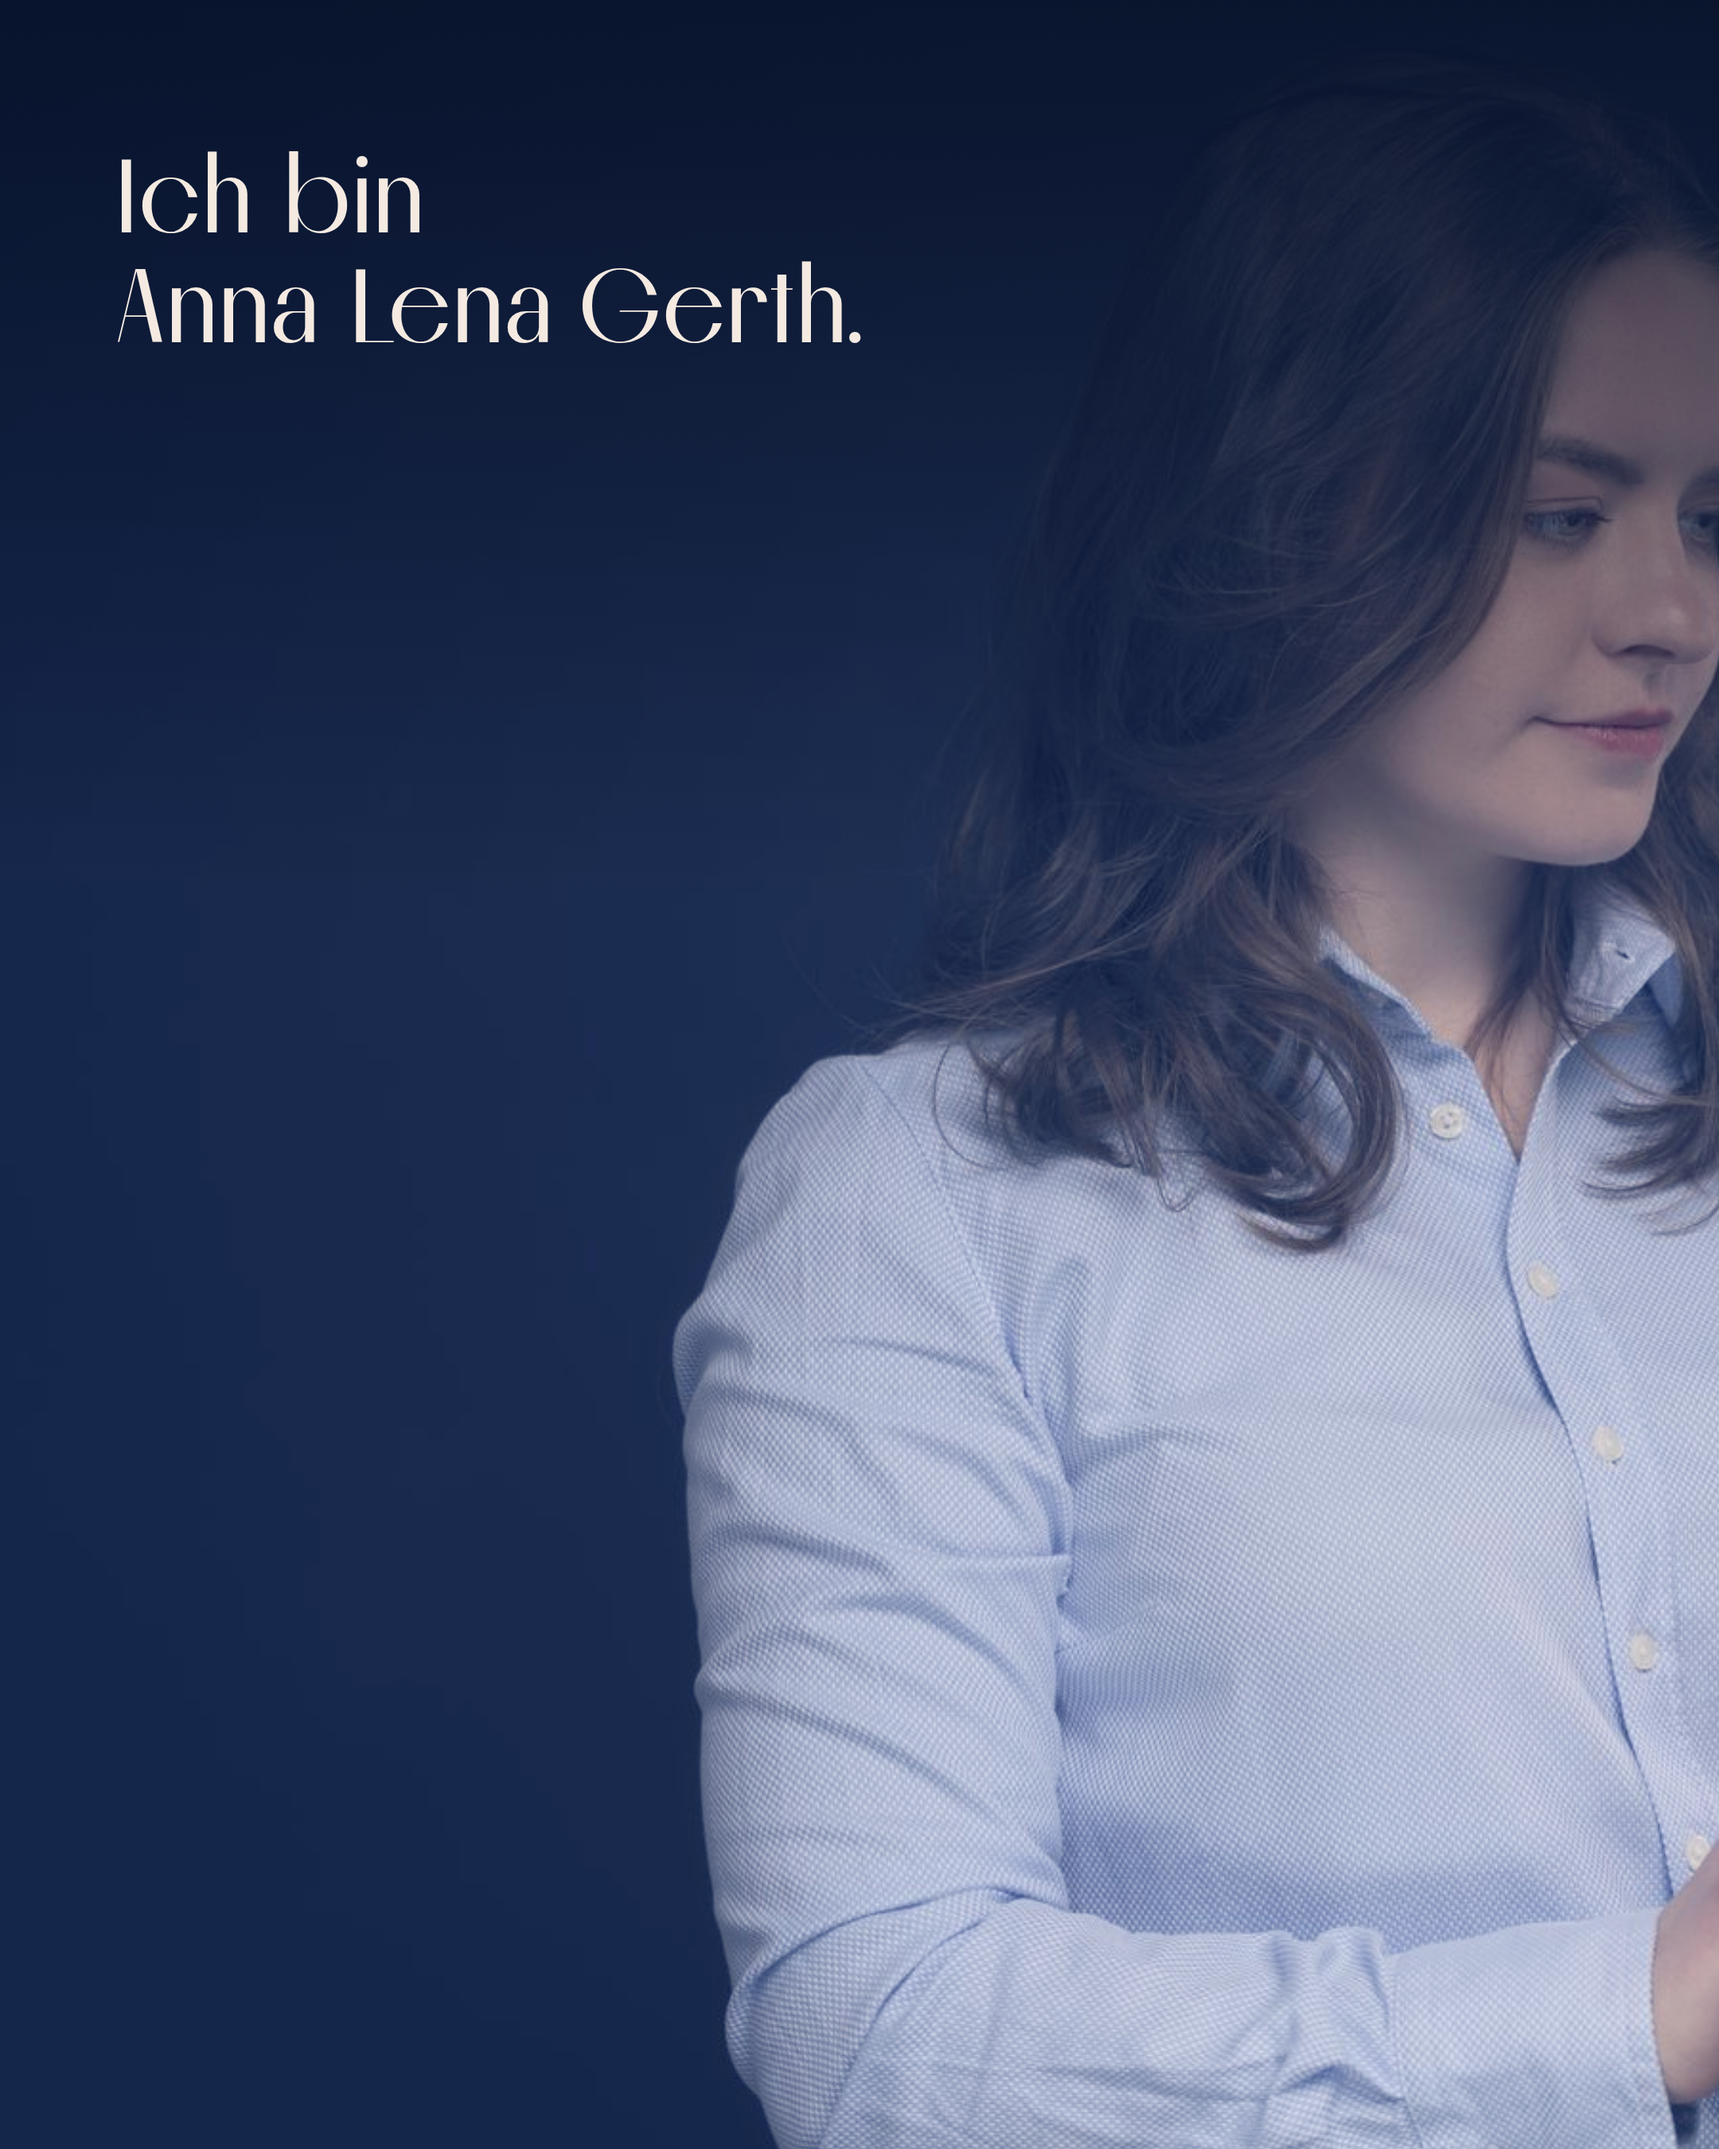
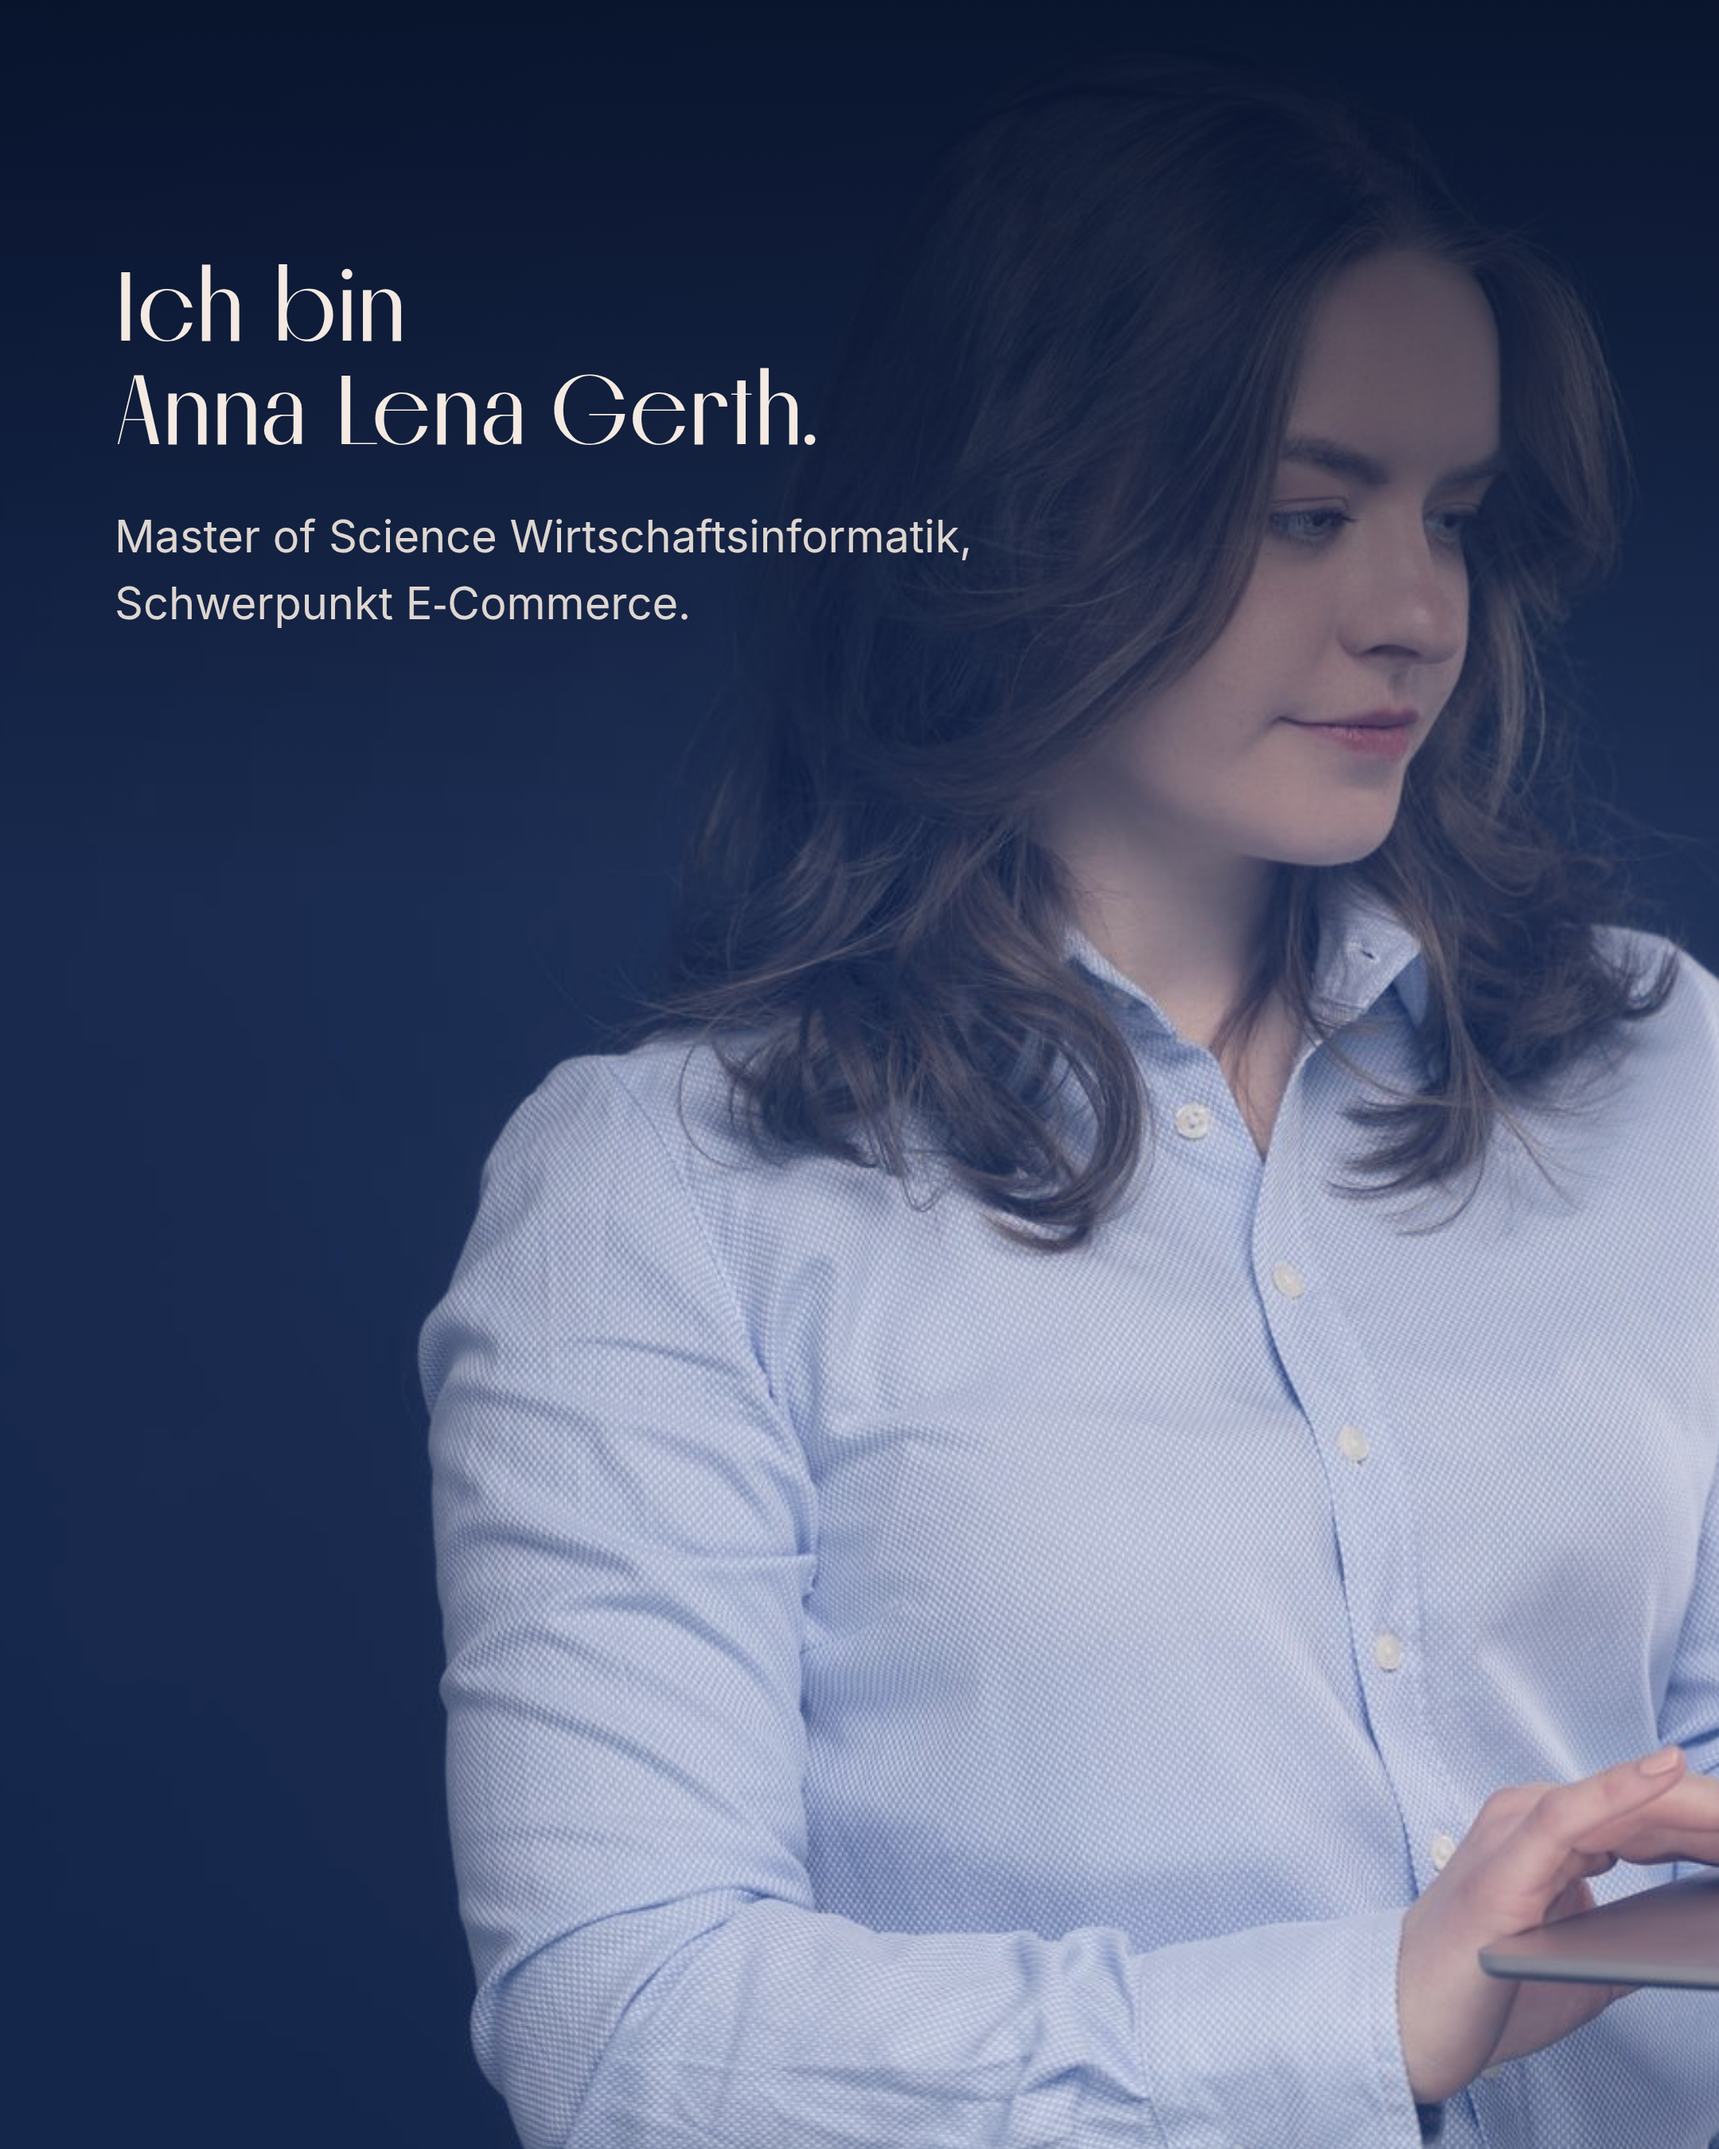
Karussell: Feinschliff nach Feedback
- Slide 2: Bildausschnitt korrigiert (Gesicht nicht mehr abgeschnitten), Text tiefer, Abschluss ergänzt (M.Sc. Wirtschaftsinformatik, Schwerpunkt E-Commerce)
- Slide 3: Text jetzt über dem Laptop, "Gründerin" in Hellblau statt Braun, Bildausschnitt an Slide 2 angepasst
- Slides 4/5/6: Eyebrows ("Meine Geschichte" etc.) im echten Website-Stil (Inter, getrackt, Farbe wie auf al-wing.de) statt Britney-Kursiv
- Slide 5: Phone-Screenshot endet vor "– keine Automatik."
- Slide 6: Hintergrund auf Brown umgestellt, Textfarben entsprechend angepasst
- Slide 7: CTA-Text neu formuliert

diff --git a/social/instagram/2026-07-founder-intro/slides/slide-6.html b/social/instagram/2026-07-founder-intro/slides/slide-6.html
@@ -4,7 +4,7 @@
 <meta charset="UTF-8">
 <link rel="stylesheet" href="../base.css">
 <style>
-  body { background: var(--cream); }
+  body { background: var(--brown); }
   .content {
     position: absolute;
     left: 96px;
@@ -12,33 +12,31 @@
     top: 50%;
     transform: translateY(-58%);
   }
-  .kicker {
-    font-family: 'Britney', serif;
-    font-size: 42px;
-    color: var(--tan);
+  .site-kicker {
     margin-bottom: 28px;
   }
   .rule {
     width: 64px;
     height: 2px;
-    background: var(--tan);
+    background: var(--cream);
+    opacity: 0.6;
     margin-bottom: 40px;
   }
   .headline {
     font-size: 68px;
-    color: var(--navy);
+    color: var(--cream);
     margin-bottom: 40px;
     max-width: 840px;
   }
   .headline .accent {
     font-family: 'Britney', serif;
-    color: var(--tan);
+    color: var(--cream);
     font-weight: 500;
   }
   .body-text {
     font-size: 34px;
-    color: var(--navy);
-    opacity: 0.82;
+    color: var(--cream);
+    opacity: 0.85;
     max-width: 800px;
   }
   .palette {
@@ -56,19 +54,19 @@
 </style>
 </head>
 <body>
-  <div class="frame">
+  <div class="frame on-dark">
     <div class="content">
       <div class="rule"></div>
-      <div class="kicker">Meine Arbeitsweise</div>
+      <div class="site-kicker">Meine Arbeitsweise</div>
       <div class="headline"><span class="accent">Individuell</span> statt von der Stange.</div>
       <div class="body-text">Jede Website entsteht pers&ouml;nlich f&uuml;r einen Betrieb, nicht aus dem Baukasten.</div>
     </div>
     <div class="palette">
       <div class="swatch" style="background:var(--navy)"></div>
       <div class="swatch" style="background:var(--steel-blue)"></div>
-      <div class="swatch" style="background:var(--cream); border:1px solid rgba(7,39,104,0.15)"></div>
+      <div class="swatch" style="background:var(--cream)"></div>
       <div class="swatch" style="background:var(--tan)"></div>
-      <div class="swatch" style="background:var(--brown)"></div>
+      <div class="swatch" style="background:var(--brown); border:1px solid rgba(244,234,225,0.4)"></div>
     </div>
   </div>
 </body>

diff --git a/social/instagram/2026-07-founder-intro/slides/slide-3.html b/social/instagram/2026-07-founder-intro/slides/slide-3.html
@@ -9,7 +9,7 @@
   .bleed-img {
     position: absolute;
     top: -45px;
-    left: -1080px;
+    left: -1240px;
     width: 2160px;
     height: 1440px;
     transform: scaleX(-1);
@@ -21,26 +21,26 @@
     mix-blend-mode: screen;
     opacity: 0.6;
   }
-  .veil-bottom {
+  .veil-top {
     position: absolute;
-    left: 0; right: 0; bottom: 0;
-    height: 660px;
-    background: linear-gradient(0deg, rgba(4,12,32,0.86) 0%, rgba(4,12,32,0) 100%);
+    top: 0; left: 0; right: 0;
+    height: 620px;
+    background: linear-gradient(180deg, rgba(4,12,32,0.78) 0%, rgba(4,12,32,0) 100%);
   }
   .caption {
     position: absolute;
+    top: 96px;
     left: 72px;
     right: 72px;
-    bottom: 96px;
     color: var(--cream);
   }
   .caption .headline { font-size: 58px; margin-bottom: 22px; }
   .caption .headline .accent {
     font-family: 'Britney', serif;
-    color: var(--tan);
+    color: var(--steel-blue);
     font-weight: 500;
   }
-  .caption .body-text { font-size: 30px; color: var(--cream); opacity: 0.92; max-width: 880px; }
+  .caption .body-text { font-size: 30px; color: var(--cream); opacity: 0.92; max-width: 780px; }
 </style>
 </head>
 <body>
@@ -49,10 +49,10 @@
       <img class="bleed-img" src="../images/Lena-67.jpg">
       <div class="navy-tint"></div>
     </div>
-    <div class="veil-bottom"></div>
+    <div class="veil-top"></div>
     <div class="caption">
       <div class="headline"><span class="accent">Gr&uuml;nderin</span> von AL&#8209;WING.</div>
-      <div class="body-text">Master in Wirtschaftsinformatik &ndash; meine Leidenschaft ist es, Design, Technologie und moderne Webl&ouml;sungen zu verbinden.</div>
+      <div class="body-text">Meine Leidenschaft ist es, Design, Technologie und moderne Webl&ouml;sungen zu verbinden.</div>
     </div>
   </div>
 </body>

diff --git a/social/instagram/2026-07-founder-intro/slides/slide-2.html b/social/instagram/2026-07-founder-intro/slides/slide-2.html
@@ -9,7 +9,7 @@
   .bleed-img {
     position: absolute;
     top: -45px;
-    left: 0;
+    left: -160px;
     width: 2160px;
     height: 1440px;
     transform: scaleX(-1);
@@ -29,12 +29,13 @@
   }
   .caption {
     position: absolute;
-    top: 88px;
+    top: 160px;
     left: 72px;
     right: 72px;
     color: var(--cream);
   }
-  .caption .headline { font-size: 66px; }
+  .caption .headline { font-size: 62px; margin-bottom: 26px; }
+  .caption .body-text { font-size: 28px; color: var(--cream); opacity: 0.9; max-width: 620px; }
 </style>
 </head>
 <body>
@@ -46,6 +47,7 @@
     <div class="veil-top"></div>
     <div class="caption">
       <div class="headline">Ich bin<br>Anna&nbsp;Lena&nbsp;Gerth.</div>
+      <div class="body-text">Master of Science Wirtschaftsinformatik, Schwerpunkt E&#8209;Commerce.</div>
     </div>
   </div>
 </body>

diff --git a/social/instagram/2026-07-founder-intro/slides/slide-4.html b/social/instagram/2026-07-founder-intro/slides/slide-4.html
@@ -12,10 +12,7 @@
     top: 50%;
     transform: translateY(-50%);
   }
-  .kicker {
-    font-family: 'Britney', serif;
-    font-size: 42px;
-    color: var(--tan);
+  .site-kicker {
     margin-bottom: 28px;
   }
   .rule {
@@ -43,10 +40,10 @@
 </style>
 </head>
 <body>
-  <div class="frame">
+  <div class="frame on-dark">
     <div class="content">
       <div class="rule"></div>
-      <div class="kicker">Meine Geschichte</div>
+      <div class="site-kicker">Meine Geschichte</div>
       <div class="headline">Warum ich AL&#8209;WING <span class="accent">gegr&uuml;ndet</span> habe.</div>
       <div class="body-text">Damit kleine Betriebe online genauso professionell wirken wie ihre Arbeit vor Ort.</div>
     </div>

diff --git a/social/instagram/2026-07-founder-intro/slides/slide-5.html b/social/instagram/2026-07-founder-intro/slides/slide-5.html
@@ -11,10 +11,7 @@
     right: 96px;
     top: 100px;
   }
-  .kicker {
-    font-family: 'Britney', serif;
-    font-size: 40px;
-    color: var(--tan);
+  .site-kicker {
     margin-bottom: 20px;
   }
   .headline {
@@ -118,7 +115,7 @@
 <body>
   <div class="frame">
     <div class="heading">
-      <div class="kicker">Mein Angebot</div>
+      <div class="site-kicker">Mein Angebot</div>
       <div class="headline">Website. Betreuung. <span class="accent">Automatisierung.</span></div>
       <div class="body-text">Ich baue Ihre Website, pflege sie danach und nehme Ihnen wiederkehrende Aufgaben ab.</div>
     </div>

diff --git a/social/instagram/2026-07-founder-intro/base.css b/social/instagram/2026-07-founder-intro/base.css
@@ -51,6 +51,19 @@ html, body {
   font-weight: 500;
 }
 
+.site-kicker {
+  font-family: 'Inter', sans-serif;
+  font-size: 30px;
+  font-weight: 600;
+  letter-spacing: 0.18em;
+  text-transform: uppercase;
+  color: var(--brown);
+}
+
+.on-dark .site-kicker {
+  color: color-mix(in srgb, var(--cream) 75%, var(--steel-blue));
+}
+
 .script {
   font-family: 'Britney', serif;
   font-style: normal;

diff --git a/social/instagram/2026-07-founder-intro/slides/slide-7.html b/social/instagram/2026-07-founder-intro/slides/slide-7.html
@@ -44,7 +44,7 @@
     <div class="veil"></div>
     <div class="cta">
       <div class="headline">Lernen wir uns <span class="accent">kennen</span>.</div>
-      <div class="body-text">Schreiben Sie mir eine DM &ndash; ich antworte Ihnen pers&ouml;nlich.</div>
+      <div class="body-text">Schreiben Sie mir per DM. Ich antworte pers&ouml;nlich.</div>
     </div>
   </div>
 </body>
